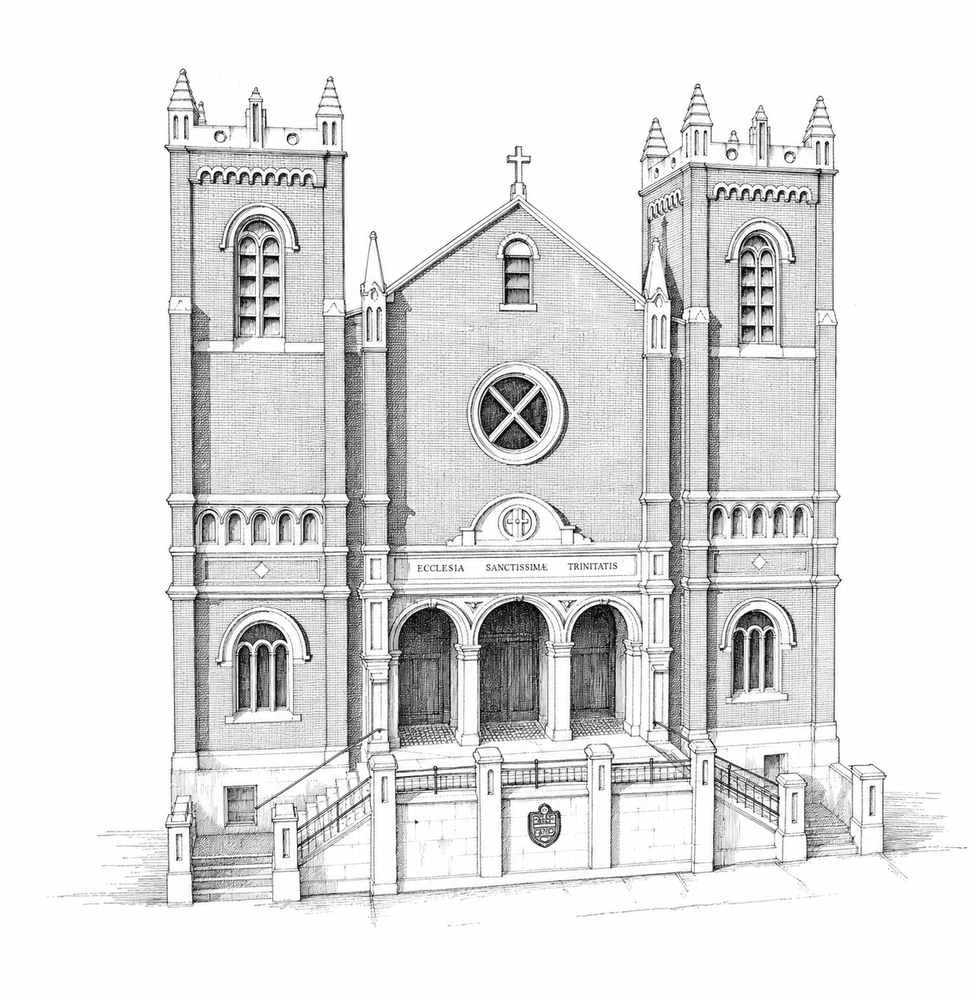
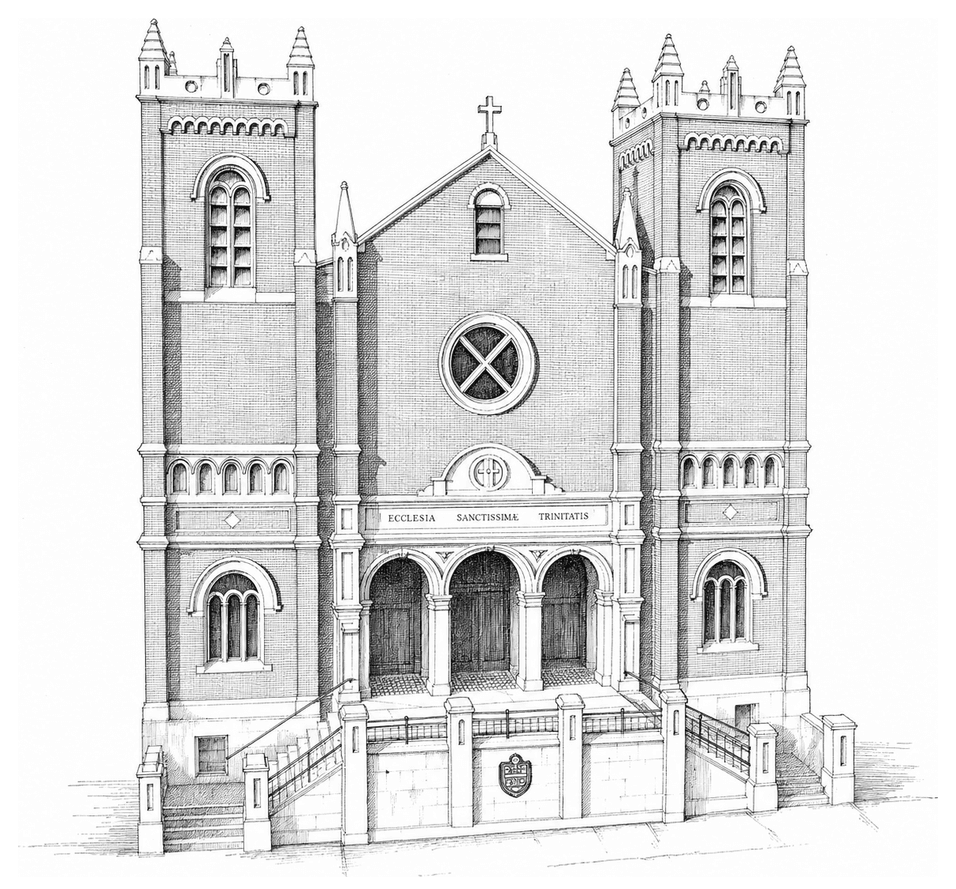
Unify the homepage church procession

diff --git a/components/ChurchProcession.tsx b/components/ChurchProcession.tsx
@@ -8,82 +8,103 @@ type ProcessionChurch = {
   label: string;
   height: string;
   mobile?: string;
+  currentCampaign?: boolean;
 };
 
 const CHURCHES: ProcessionChurch[] = [
   {
-    src: "/images/parishes/shenandoah-st-george-1899.jpg",
-    alt: "St. George Lithuanian church in Shenandoah.",
+    src: "/images/parishes/shenandoah-st-george-line-drawing.png",
+    alt: "Line drawing of St. George Lithuanian church in Shenandoah.",
     href: "/parishes/sv-jurgio-shenandoah-pa",
     label: "St. George, Shenandoah",
-    height: "h-[96%]",
+    height: "h-full",
   },
   {
-    src: "/images/parishes/mount-carmel-holy-cross-1899.jpg",
-    alt: "Holy Cross Lithuanian church in Mount Carmel.",
+    src: "/images/parishes/mount-carmel-holy-cross-line-drawing.png",
+    alt: "Line drawing of Holy Cross Lithuanian church in Mount Carmel.",
     href: "/parishes/sv-kryziaus-mount-carmel-pa",
     label: "Holy Cross, Mount Carmel",
-    height: "h-[76%]",
+    height: "h-[82%]",
+    mobile: "hidden sm:block",
   },
   {
-    src: "/images/parishes/wilkes-barre-holy-trinity-1899.jpg",
-    alt: "Holy Trinity Lithuanian church in Wilkes-Barre.",
+    src: "/images/parishes/wilkes-barre-holy-trinity-line-drawing.png",
+    alt: "Line drawing of the first Holy Trinity Lithuanian church in Wilkes-Barre.",
     href: "/parishes/svc-trejybes-wilkes-barre-pa",
     label: "Holy Trinity, Wilkes-Barre",
     height: "h-[84%]",
     mobile: "hidden sm:block",
   },
   {
-    src: "/images/parishes/pittsburgh-st-casimir.jpg",
-    alt: "St. Casimir Lithuanian church in Pittsburgh.",
+    src: "/images/parishes/pittsburgh-st-casimir-line-drawing.png",
+    alt: "Line drawing of St. Casimir Lithuanian church in Pittsburgh.",
     href: "/parishes/sv-kazimiero-pittsburgh-pa",
     label: "St. Casimir, Pittsburgh",
-    height: "h-[78%]",
-  },
-  {
-    src: "/images/parishes/chicago-st-george-1913.jpg",
-    alt: "St. George Lithuanian church in Chicago.",
-    href: "/parishes/sv-jurgio-chicago-il",
-    label: "St. George, Chicago",
     height: "h-[92%]",
     mobile: "hidden sm:block",
   },
   {
-    src: "/images/parishes/chicago-holy-cross-1914.jpg",
-    alt: "Holy Cross Lithuanian church in Chicago.",
+    src: "/images/parishes/chicago-st-george-line-drawing.png",
+    alt: "Line drawing of St. George Lithuanian church in Chicago.",
+    href: "/parishes/sv-jurgio-chicago-il",
+    label: "St. George, Chicago",
+    height: "h-full",
+    mobile: "hidden sm:block",
+  },
+  {
+    src: "/images/parishes/chicago-holy-cross-line-drawing.png",
+    alt: "Line drawing of Holy Cross Lithuanian church in Chicago.",
     href: "/parishes/sv-kryziaus-chicago-il",
     label: "Holy Cross, Chicago",
-    height: "h-[88%]",
+    height: "h-[94%]",
   },
   {
-    src: "/images/parishes/lawrence-st-francis-1958.jpg",
-    alt: "St. Francis Lithuanian church in Lawrence.",
-    href: "/parishes/sv-pranciskaus-lawrence-ma",
-    label: "St. Francis, Lawrence",
-    height: "h-[72%]",
-    mobile: "hidden sm:block",
-  },
-  {
-    src: "/images/parishes/lawrence-sacred-heart-stereograph.jpg",
-    alt: "Sacred Heart Lithuanian National Catholic church in Lawrence.",
+    src: "/images/parishes/lawrence-sacred-heart-line-drawing.png",
+    alt: "Line drawing of Sacred Heart Lithuanian National Catholic church in Lawrence.",
     href: "/parishes/saldziausios-jezaus-sirdies-lawrence-ma",
     label: "Sacred Heart, Lawrence",
-    height: "h-[68%]",
+    height: "h-[74%]",
+    mobile: "hidden sm:block",
   },
   {
-    src: "/images/parishes/manhattan-our-lady-of-vilnius-2011.jpg",
-    alt: "Our Lady of Vilnius Lithuanian church in Manhattan.",
+    src: "/images/parishes/manhattan-our-lady-of-vilnius-line-drawing.png",
+    alt: "Line drawing of Our Lady of Vilnius Lithuanian church in Manhattan.",
     href: "/parishes/ausros-vartu-manhattan-ny",
     label: "Our Lady of Vilnius, Manhattan",
-    height: "h-[82%]",
+    height: "h-[90%]",
     mobile: "hidden sm:block",
+  },
+  {
+    src: "/images/parishes/hartford-holy-trinity-line-drawing.png",
+    alt: "Line drawing of Holy Trinity Lithuanian church in Hartford.",
+    href: "/parishes/svc-trejybes-hartford-ct",
+    label: "Holy Trinity, Hartford — active campaign",
+    height: "h-[88%]",
+    currentCampaign: true,
+  },
+  {
+    src: "/images/parishes/waterbury-st-joseph-line-drawing.png",
+    alt: "Line drawing of St. Joseph Lithuanian church in Waterbury.",
+    href: "/parishes/sv-juozapo-waterbury-ct",
+    label: "St. Joseph, Waterbury — active campaign",
+    height: "h-[82%]",
+    currentCampaign: true,
+  },
+  {
+    src: "/images/parishes/maspeth-transfiguration-line-drawing.png",
+    alt: "Line drawing of Transfiguration Lithuanian church in Maspeth.",
+    href: "/parishes/kristaus-atsimainymo-maspeth-ny",
+    label: "Transfiguration, Maspeth — active campaign",
+    height: "h-[76%]",
+    currentCampaign: true,
   },
   {
     src: "/images/parishes/southfield-divine-providence-line-drawing.png",
     alt: "Line drawing of Divine Providence Lithuanian church in Southfield.",
     href: "/parishes/dievo-apvaizdos-southfield-mi",
-    label: "Divine Providence, Southfield",
+    label: "Divine Providence, Southfield — active campaign",
     height: "h-full",
+    currentCampaign: true,
   },
 ];
 
@@ -91,7 +112,7 @@ export default function ChurchProcession() {
   return (
     <div
       className="mt-4 border-y border-rule py-2"
-      aria-label="From the first Lithuanian parish to Divine Providence today"
+      aria-label="From the first Lithuanian parish to four communities organizing today"
     >
       <div className="relative flex h-20 items-end justify-between gap-0.5 overflow-hidden sm:h-24">
         <span
@@ -104,17 +125,24 @@ export default function ChurchProcession() {
             href={church.href}
             title={church.label}
             aria-label={`Open the parish record for ${church.label}`}
-            className={`${church.mobile ?? ""} ${church.height} group relative min-w-0 flex-1 overflow-hidden`}
+            className={`${church.mobile ?? ""} ${church.height} group relative min-w-0 flex-1 overflow-hidden ${
+              church.currentCampaign
+                ? "border-b-2 border-[color:var(--mark-closed)]"
+                : ""
+            }`}
           >
             <Image
               src={church.src}
               alt={church.alt}
               fill
-              sizes="(max-width: 640px) 16vw, 9vw"
-              className="object-cover object-top grayscale contrast-125 mix-blend-multiply opacity-70 transition-opacity group-hover:opacity-100"
+              sizes="(max-width: 640px) 16vw, 8vw"
+              loading="eager"
+              className={`object-contain object-bottom grayscale contrast-125 mix-blend-multiply transition-opacity group-hover:opacity-100 ${
+                church.currentCampaign ? "opacity-90" : "opacity-65"
+              }`}
               style={{
                 maskImage:
-                  "linear-gradient(to bottom, black 72%, transparent 100%)",
+                  "linear-gradient(to bottom, black 78%, transparent 100%)",
               }}
             />
           </Link>
@@ -128,10 +156,10 @@ export default function ChurchProcession() {
         </p>
         <p className="max-w-[45%] text-right">
           <span className="font-medium text-foreground">
-            A parish alive today
+            Happening now
           </span>
           <br />
-          Divine Providence, Southfield &middot; dedicated 1973
+          Hartford &middot; Waterbury &middot; Maspeth &middot; Southfield
         </p>
       </div>
     </div>
